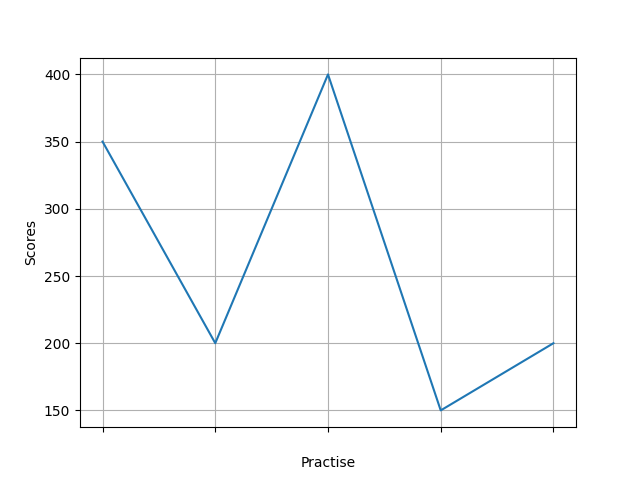
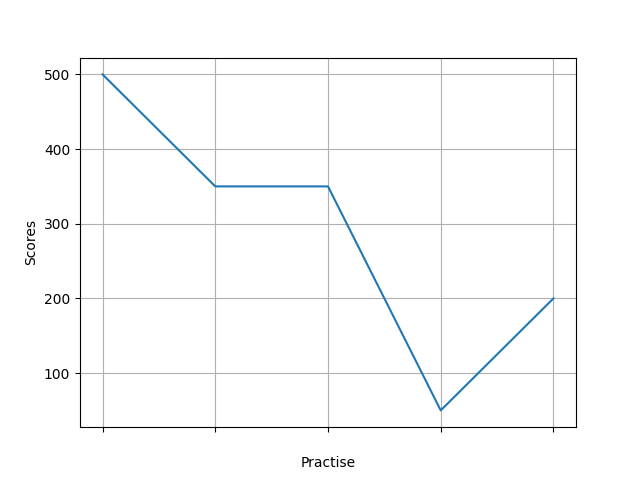
completed stats page

diff --git a/static/scripts/learn.js b/static/scripts/learn.js
@@ -12,9 +12,10 @@ document.addEventListener("DOMContentLoaded", getWords);
 var words = [];
 var username = "";
 var score = 0;
+var scores = [];
 var userlevel = 1;
 
-//GET WORDS AND USER LEVEL
+//GET WORDS AND USER LEVEL AND SCORE
 async function getWords() {
   username = window.location.href.split("/");
   username = username[username.length - 1];
@@ -26,7 +27,16 @@ async function getWords() {
     return;
   }
   words = await wordreq.json();
-  console.log(words);
+  console.log("Words", words);
+
+  //GET SCORES REQUEST
+  let scoresreq = await fetch(`http://127.0.0.1:5000/getscores/${username}`);
+  if (!scoresreq.ok) {
+    console.log("RESULT NOT OK");
+    return;
+  }
+  scores = await scoresreq.json();
+  console.log("Initial Scores: ", scores);
 
   //GET USERLEVEL REQUEST
   let userlevelreq = await fetch(
@@ -72,9 +82,12 @@ async function handleAnswer(answer) {
     console.log("I DON'T KNOW", score);
   }
 
+  //When all words are done
   if (wordIndex === 4) {
     console.log(words);
     alert(`YOUR SCORE IS ${score}`);
+
+    //Decision for adjusting userlevel
     if (score > 300 && userlevel.userlevel < 4) {
       userlevel.userlevel += 1;
     } else if (score < 0 && userlevel.userlevel > 1) {
@@ -82,7 +95,7 @@ async function handleAnswer(answer) {
     }
 
     //Update Userlevel
-    console.log("Final score: ", userlevel);
+    console.log("Final userlevel: ", userlevel);
     const updateUserlevelReq = await fetch(
       `http://127.0.0.1:5000/updateuserlevel/${username}`,
       {
@@ -93,6 +106,27 @@ async function handleAnswer(answer) {
     );
 
     if (!updateUserlevelReq.ok) {
+      alert("RESULT NOT OK!");
+      return;
+    }
+
+    //Update Scores
+    scores.score1 = scores.score2;
+    scores.score2 = scores.score3;
+    scores.score3 = scores.score4;
+    scores.score4 = scores.score5;
+    scores.score5 = score;
+    console.log("Final scores: ", scores);
+    const updateScores = await fetch(
+      `http://127.0.0.1:5000/updatescores/${username}`,
+      {
+        method: "POST",
+        headers: { "Content-Type": "application/json" },
+        body: JSON.stringify(scores),
+      }
+    );
+
+    if (!updateScores.ok) {
       alert("RESULT NOT OK!");
       return;
     }
@@ -148,7 +182,7 @@ async function checkStreak() {
     }
   }
 
-  console.log(streakdata);
+  console.log("Final Streak: ", streakdata);
 
   let updatestreak = await fetch(
     `http://127.0.0.1:5000/updatestreak/${username}`,

diff --git a/templates/stats.html b/templates/stats.html
@@ -6,6 +6,28 @@
     <link rel="stylesheet" href="{{ url_for('static', filename='css/stats.css') }}">
 </head>
 <body>
+
+    <!-- Mastered Words Bar -->
+    <div id="progress-bar">
+        <div id="progress-fill" style="width: {{ mastered_words_progress}}%"></div>
+    </div>
+
+    <section id="mastered-words-number">
+        <div>Words Mastered: {{mastered_words}}</div>
+        <div>Total Words: 370</div>
+    </section>
+
+    <!-- New Words Bar -->
+    <div id="progress-bar">
+        <div id="progress-fill" style="width: {{learning_words_progress}}%"></div>
+    </div>
+
+    <section id="mastered-words-number">
+        <div>Learning Words: {{learning_words}}</div>
+        <div>Total Words: 370</div>
+    </section>
+
+    <!-- Graph -->
     <div id="graph-div">
         <img src="" id="graph">
     </div>

diff --git a/static/css/stats.css b/static/css/stats.css
@@ -25,3 +25,31 @@ body{
   width: 60%;
   height: 480px;
 }
+
+#progress-bar{
+  width: 70%;
+  height: 40px;
+  margin: auto;
+  margin-top: 20px;
+  margin-bottom: 20px;
+  border-radius: 36px;
+  background-color: white;
+  overflow: hidden;
+}
+
+#progress-fill{
+  height: 100%;
+  position: relative;
+  background-color: rgb(31, 200, 31);
+}
+
+#mastered-words-number{
+  margin-bottom: 48px;
+}
+
+#mastered-words-number div{
+  text-align: center;
+  font-size: 2rem;
+  color: white;
+  margin: 8px;
+}

diff --git a/static/scripts/stats.js b/static/scripts/stats.js
@@ -1,13 +1,6 @@
 document.addEventListener("DOMContentLoaded", getGraph);
 
 async function getGraph() {
-  //   let graphreq = await fetch(`http://127.0.0.1:5000/getstreak/${username}`);
-  //   if (!graphreq.ok) {
-  //     alert("RESULT NOT OK!");
-  //     return;
-  //   }
-  //   let streakdata = await streakreq.json();
-
   const graph = document.getElementById("graph");
   graph.setAttribute("src", "../static/images/stat.png");
 }

diff --git a/app.py b/app.py
@@ -220,7 +220,7 @@ def updatewords(username):
 
             query = "update userprogress set box_level = %s, correct_answers = %s, incorrect_answers = %s where username = %s and word_id = %s;"
             cursor.execute(query, (word['box_level'], word['correct_answers'], word['incorrect_answers'], username, word['word_id']))
-            print(word)
+            # print(word)
             conn.commit()
         
 
@@ -367,6 +367,66 @@ def updateuserlevel(username):
 
 
 
+@app.route("/getscores/<username>")
+def getscores(username):
+    try:
+        conn = mysql.connector.connect(host='localhost',
+                                        username='root',
+                                        password=sqlpassword,
+                                        database='mp2a')
+            
+        cursor = conn.cursor()
+
+        query = "select username, score1, score2, score3, score4, score5 from scores where username = %s"
+        cursor.execute(query, (username,))
+        result = cursor.fetchone()
+            
+        return jsonify({"username": result[0], "score1": result[1], "score2": result[2], "score3": result[3], "score4": result[4], "score5": result[5]})
+    
+
+    except Exception as e:
+        print("\n\n", e, "\n\n")
+        return jsonify({"status": "ERROR=> " + str(e)})
+
+    finally:
+        cursor.close()
+        conn.close()
+
+
+
+
+
+@app.route("/updatescores/<username>", methods = ['POST',])
+def updatescores(username):
+    data = request.get_json()
+    # print("\n\n Update Scores: ", data)
+    try:
+        conn = mysql.connector.connect(host='localhost',
+                                        username='root',
+                                        password=sqlpassword,
+                                        database='mp2a')
+            
+        cursor = conn.cursor()
+
+        query = "update scores set score1 = %s, score2 = %s, score3 = %s, score4 = %s, score5 = %s  where username = %s;"
+        cursor.execute(query, (data['score1'], data['score2'], data['score3'], data['score4'], data['score5'], username))
+        conn.commit()
+
+
+    except Exception as e:
+        print("\n\n", e, "\n\n")
+        return jsonify({"status": "ERROR=> " + str(e)})
+
+    finally:
+        cursor.close()
+        conn.close()
+        
+    return jsonify({"status": "ok"})
+
+
+
+
+
 @app.route("/review/<username>")
 def review(username):
     return render_template("quiz.html")
@@ -400,6 +460,22 @@ def stats(username):
         matplotlib.pyplot.close()
 
 
+        query = "select box_level from userprogress where username = %s and box_level = 5;"
+        cursor.execute(query, (username,))
+        result = cursor.fetchall()
+        mastered_words = len(result)
+        mastered_words_progress = (mastered_words * 100) / 370
+
+
+        query = "select box_level from userprogress where username = %s and box_level != 0;"
+        cursor.execute(query, (username,))
+        result = cursor.fetchall()
+        learning_words = len(result)
+        learning_words_progress = (learning_words * 100) / 370
+
+        # print(mastered_words_progress, learning_words_progress)
+
+
     except Exception as e:
         print("\n\n", e, "\n\n")
         return jsonify({"status": "ERROR=> " + str(e)})
@@ -408,7 +484,11 @@ def stats(username):
         cursor.close()
         conn.close()
 
-    return render_template("stats.html")
+    return render_template("stats.html", 
+                           mastered_words_progress = str(mastered_words_progress), 
+                           mastered_words = str(mastered_words),
+                           learning_words_progress = learning_words_progress, 
+                           learning_words = learning_words)
 
 
 
